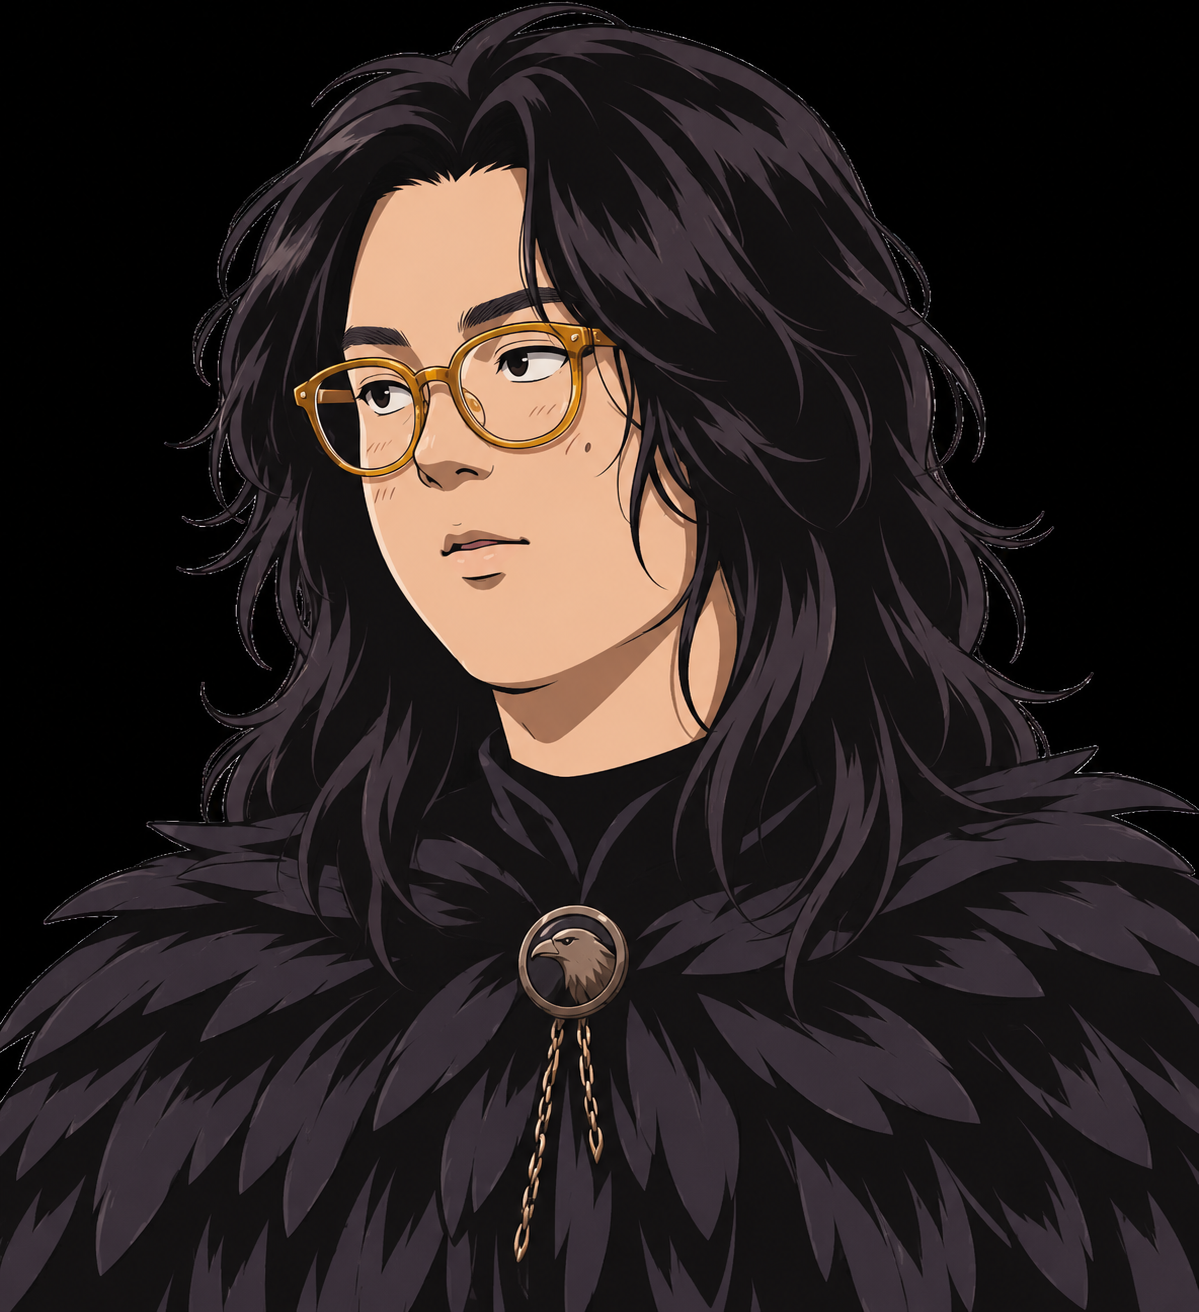
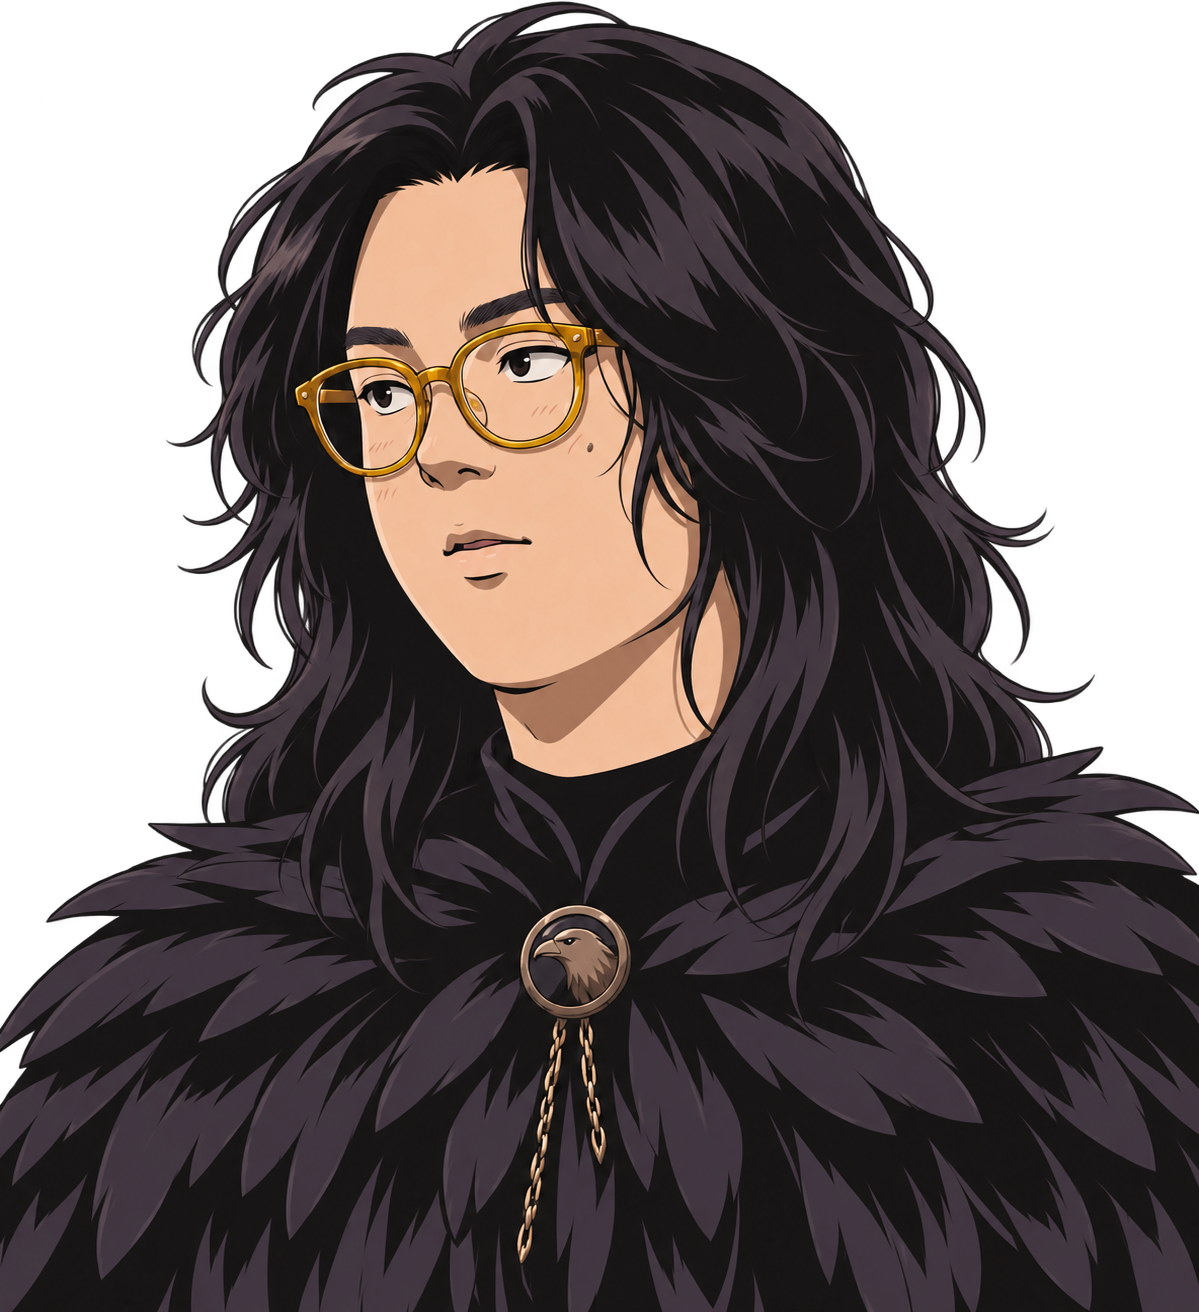
Fix Miko’s bag clue and portrait transparency

diff --git a/src/style.css b/src/style.css
@@ -152,10 +152,9 @@ button:disabled { opacity: .5; cursor: default; }
   max-width: 85%;
   object-fit: contain;
   object-position: center bottom;
-  filter: var(--portrait-cutout,) brightness(var(--portrait-brightness, 1)) drop-shadow(0 .25rem .65rem #08060ab0);
+  filter: brightness(var(--portrait-brightness, 1)) drop-shadow(0 .25rem .65rem #08060ab0);
   pointer-events: none;
 }
-#portrait.opaque-portrait { --portrait-cutout: url(#portrait-cutout); }
 #speaker, #line { display: block; }
 #speaker { color: #f0be86; }
 .plot-controls { justify-content: space-between; margin-top: .5rem; }

diff --git a/index.html b/index.html
@@ -8,13 +8,6 @@
   <script type="module" src="./src/main.mjs"></script>
 </head>
 <body>
-  <svg width="0" height="0" style="position: absolute" aria-hidden="true">
-    <filter id="portrait-cutout" color-interpolation-filters="sRGB">
-      <feColorMatrix type="matrix" values="0 0 0 0 0  0 0 0 0 0  0 0 0 0 0  40 40 40 0 -.4" result="cutout">
-      </feColorMatrix>
-      <feComposite in="SourceGraphic" in2="cutout" operator="in"></feComposite>
-    </filter>
-  </svg>
   <main>
     <header id="game-header" hidden>
       <p class="game-name">乐队酒局杀人事件</p>
